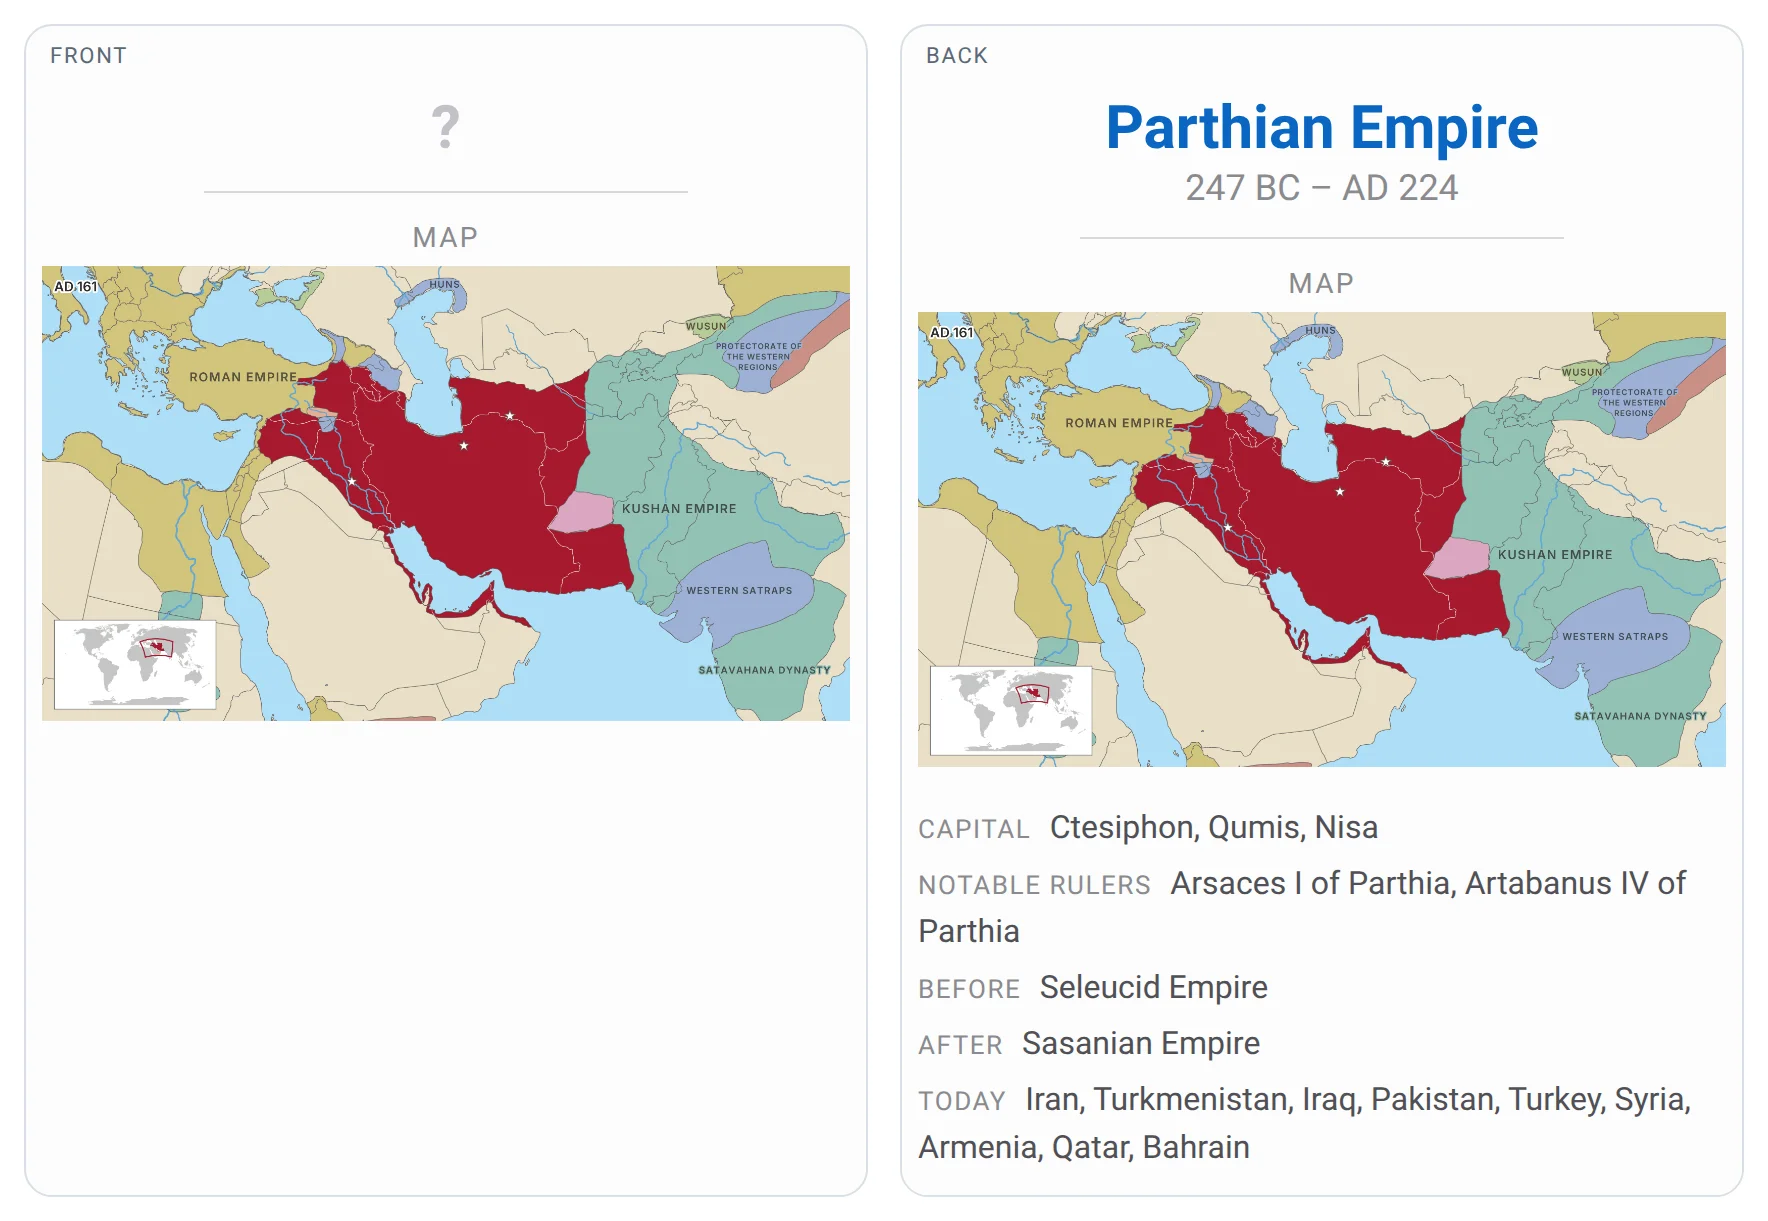
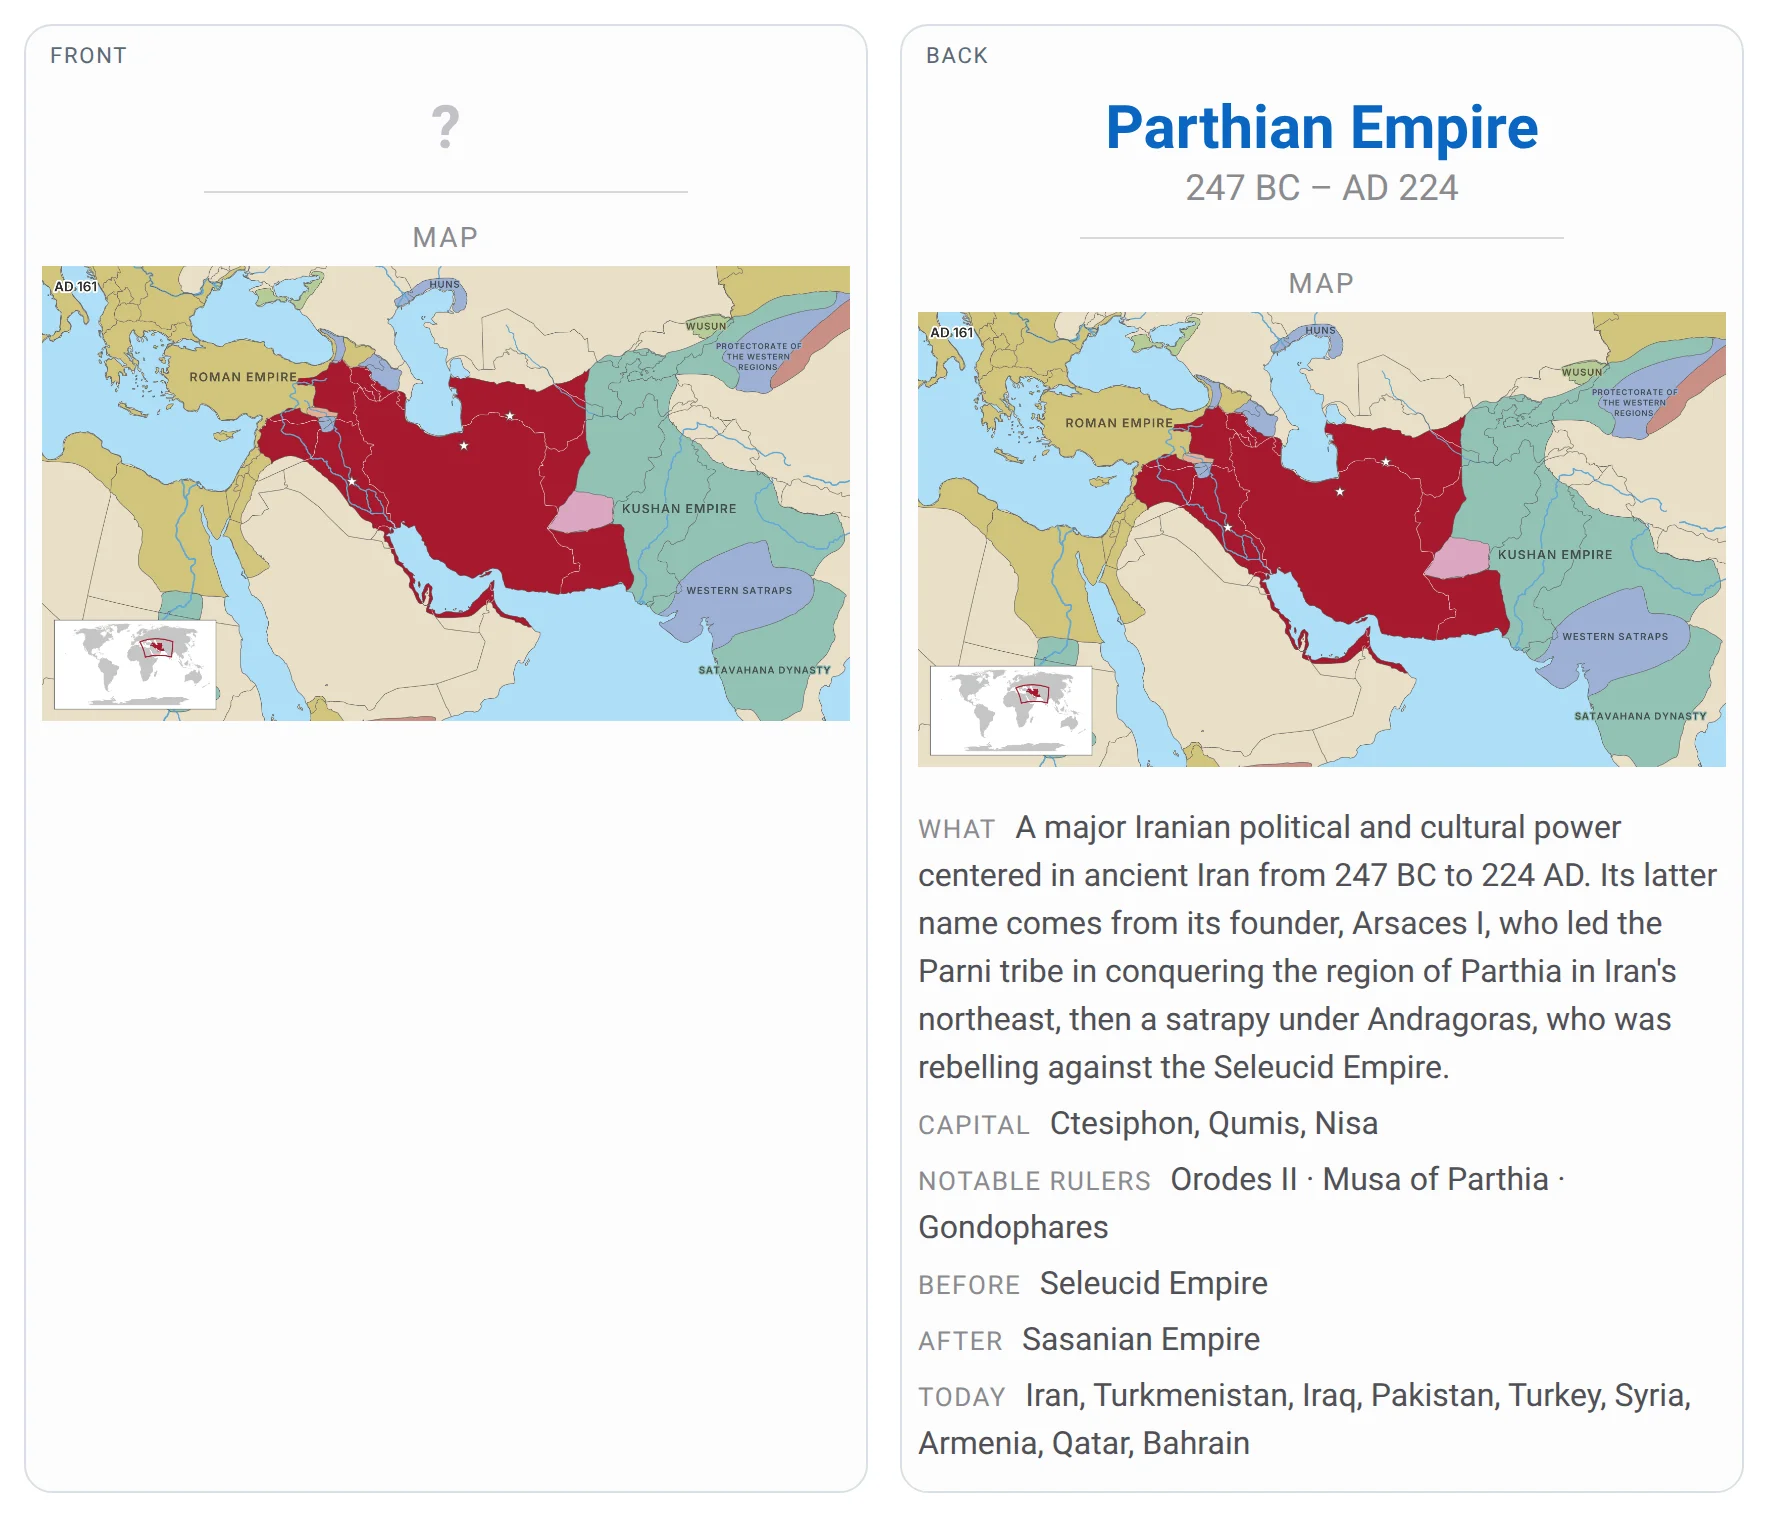
End a sentence after AD, BC, CE or BCE, so civilization summaries and figure descriptions keep to one sentence

diff --git a/src/page_in_history/sentences.py b/src/page_in_history/sentences.py
@@ -8,7 +8,8 @@ MIN_NEW_WORDS = 2
 FILLER = {"the", "a", "an", "of", "from", "to", "and", "in", "ad", "bc", "bce", "ce"}
 COPULA = re.compile(r"\b(?:was|is|were)\s+", re.IGNORECASE)
 PARENTHESES = re.compile(r"\s*\([^()]*\)")
-SENTENCE_END = re.compile(r"(?:(?<=[a-z0-9\])])|(?<=\s[IVX]{2})|(?<=\s[IVX]{3})|(?<=\s[IVX]{4}))\.\s+(?=[A-Z])"
+SENTENCE_END = re.compile(r"(?:(?<=[a-z0-9\])])|(?<=\s[IVX]{2})|(?<=\s[IVX]{3})|(?<=\s[IVX]{4})|(?<=\s(?:AD|BC|CE))|(?<=\sBCE))"
+                          r"\.\s+(?=[A-Z])"
                           r"|(?<=\s[IVX])\.\s+(?=(?:He|She|His|Her|They|Their|The|In|After|During|It|As|Under)\b)")
 
 

diff --git a/README.md b/README.md
@@ -203,7 +203,7 @@ The deck still reflects who held power and was written about: about 8% of the fi
 | Name | Wikipedia | The article's title without its disambiguator (Fuzuli, not Fuzuli (poet)), kept when two figures would share a name (Francis Bacon, Francis Bacon (artist)) |
 | Life | Wikidata | Birth and death years, as a range or centuries; "died …" when the birth is unknown or would make a life longer than 120 years, "born …" when the death is unknown |
 | Role | Wikipedia short description, or Wikidata's description when there is none | Dates and centuries are removed, since the life years are shown separately |
-| Contribution | Wikipedia opening paragraph, Wikidata | The opening sentence as written, without its subject (a sentence can end after a regnal number: "…grandmother of Mehmed IV. She…"); when it adds fewer than two words to the role ("The tenth Mughal emperor from 1713 to 1719") or glosses the name ("Also known as …", "His form of address was …"), the next sentence that does; else Wikidata's description if it does; else nothing |
+| Contribution | Wikipedia opening paragraph, Wikidata | The opening sentence as written, without its subject (a sentence can end after a regnal number or an era: "…grandmother of Mehmed IV. She…", "…224 AD. Its…"); when it adds fewer than two words to the role ("The tenth Mughal emperor from 1713 to 1719") or glosses the name ("Also known as …", "His form of address was …"), the next sentence that does; else Wikidata's description if it does; else nothing |
 | Portraits | Wikidata, Wikimedia Commons, CLIP ViT-L/14 | The person's main Wikidata image, kept when the image model sees one person in it, compared with statues, busts, reliefs, coins, medals, groups, court and battle scenes, riders, signatures, seals, book covers, buildings, maps and text, and when Commons does not file it as an object (coins, stamps, plates, statues, busts, reliefs, effigies, burial suits, tombs, calligraphy; crowns or flags unless also filed as a portrait or as art). A later depiction gives way to a portrait from the person's lifetime the model sees clearly. Otherwise up to ten files from their own Commons category, but only those Commons files as a portrait, painting, drawing, engraving or photograph of the person, or photographs named after them in full, since the category also holds their works, relatives and scenes; tried best first by what Commons says before downloading (likely photographs, then made in their lifetime, then within 50 years of their death, then the rest; the most used first) and stopping once nothing later could do better. When nothing will do, the lead image of the person's English Wikipedia article, which the model must see clearly as one person. The picture is labelled a photograph, a portrait from life, a later depiction or, without a date, a depiction; for someone who died before 1900 a Commons date from 1950 on is when the artwork was photographed, so it counts as undated. Without the model (`--photos metadata`), the main image or a portrait category named after the person |
 | Photographs | Wikidata, Wikimedia Commons, CLIP ViT-L/14 | See the Photos card above: a portrait of one person that the model is sure is a photograph (0.9), or fairly sure (0.7) with Commons agreeing; with `--photos metadata`, a photographic Commons category |
 
